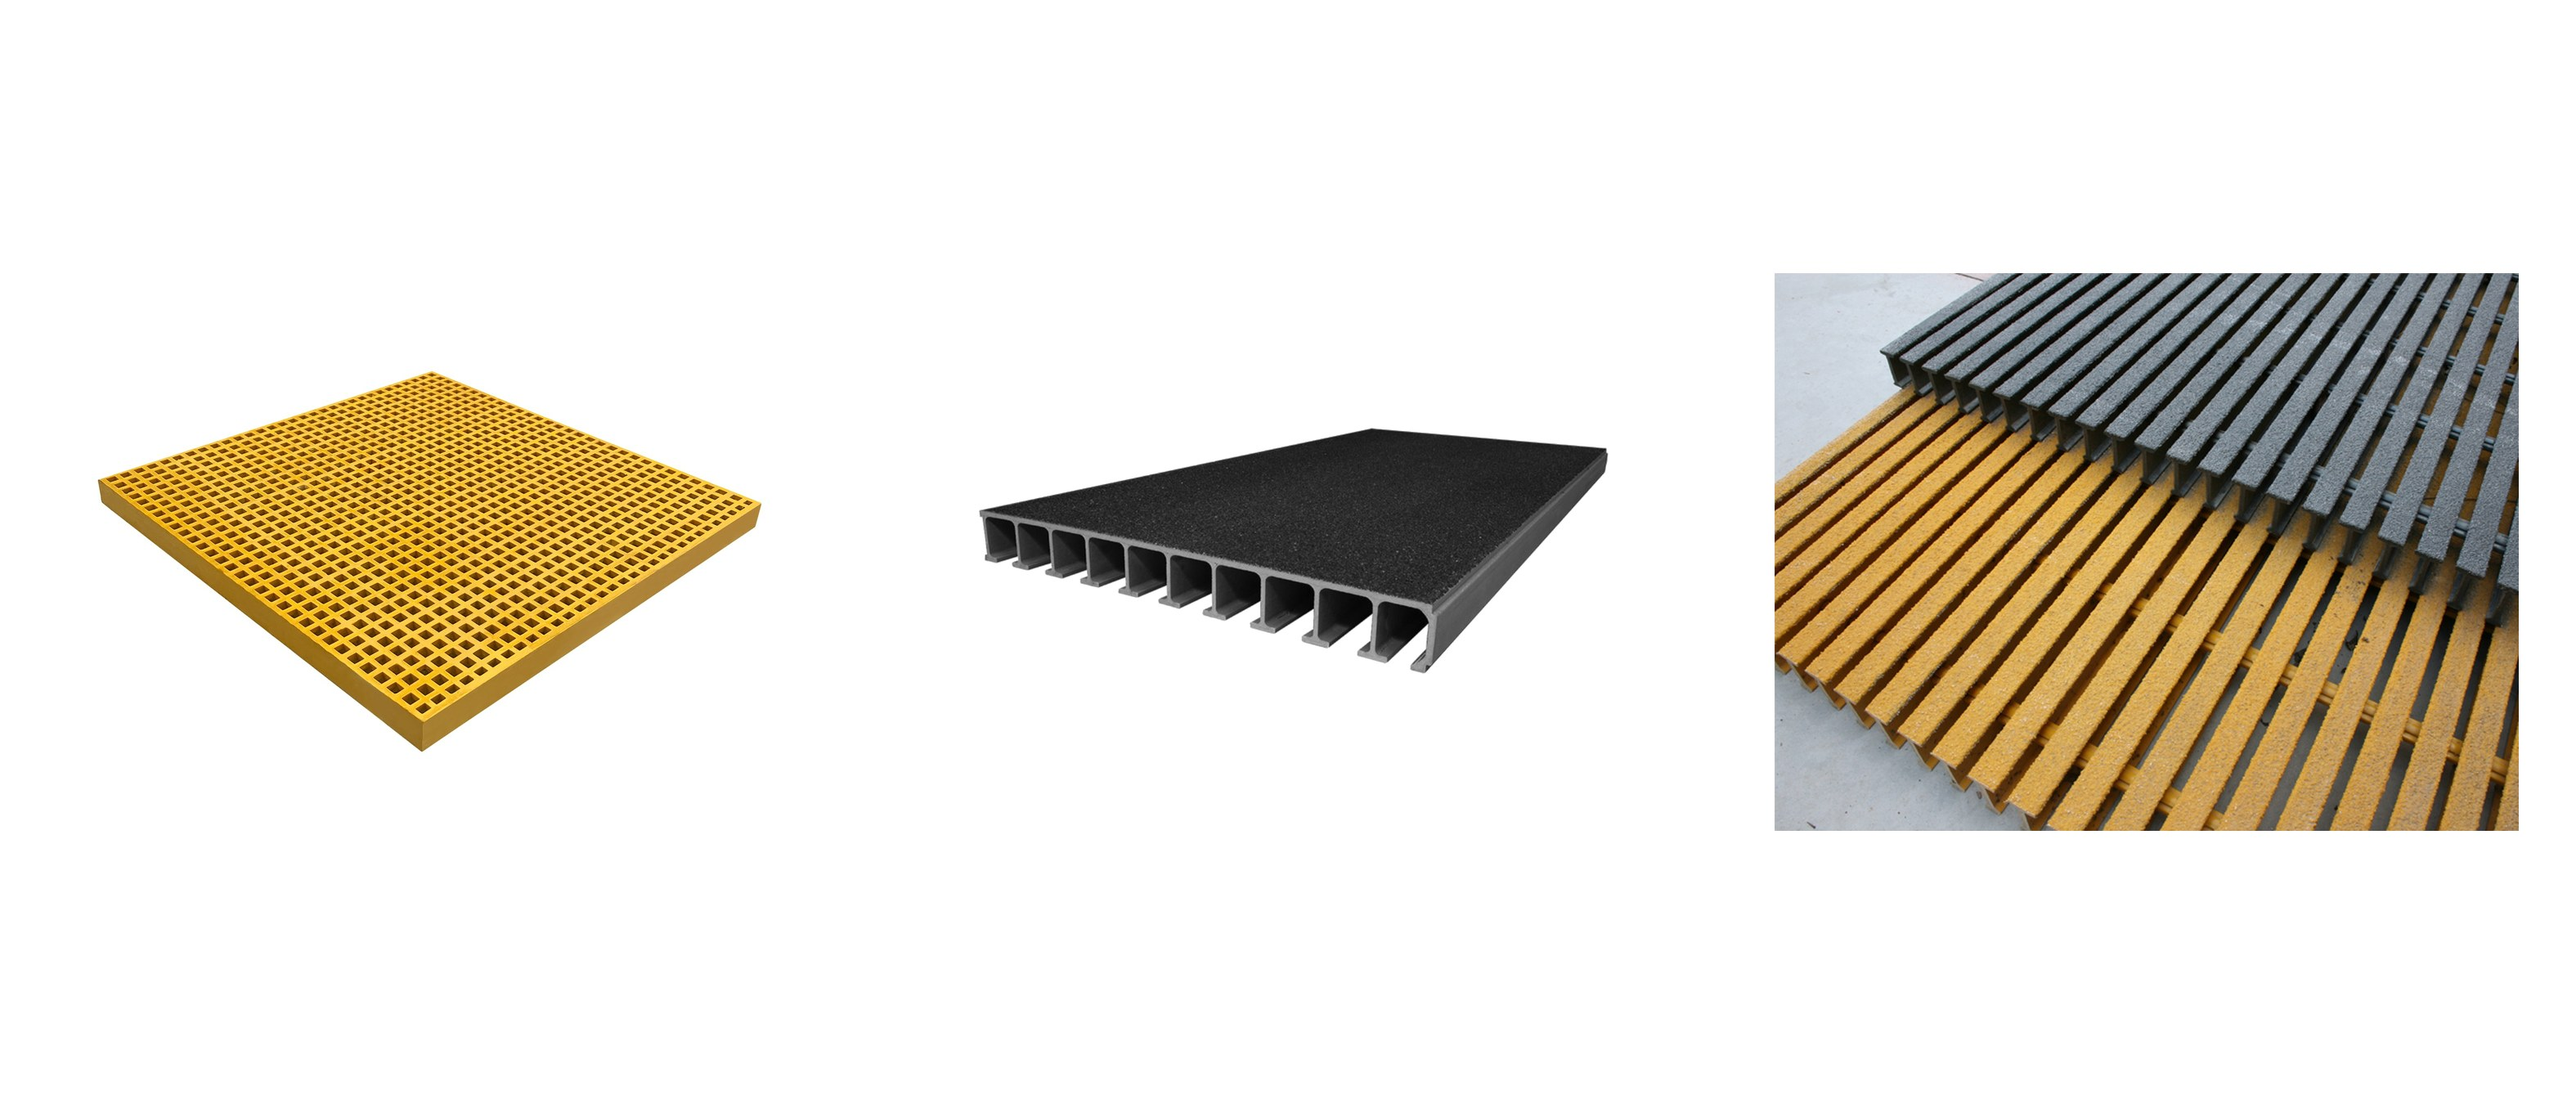
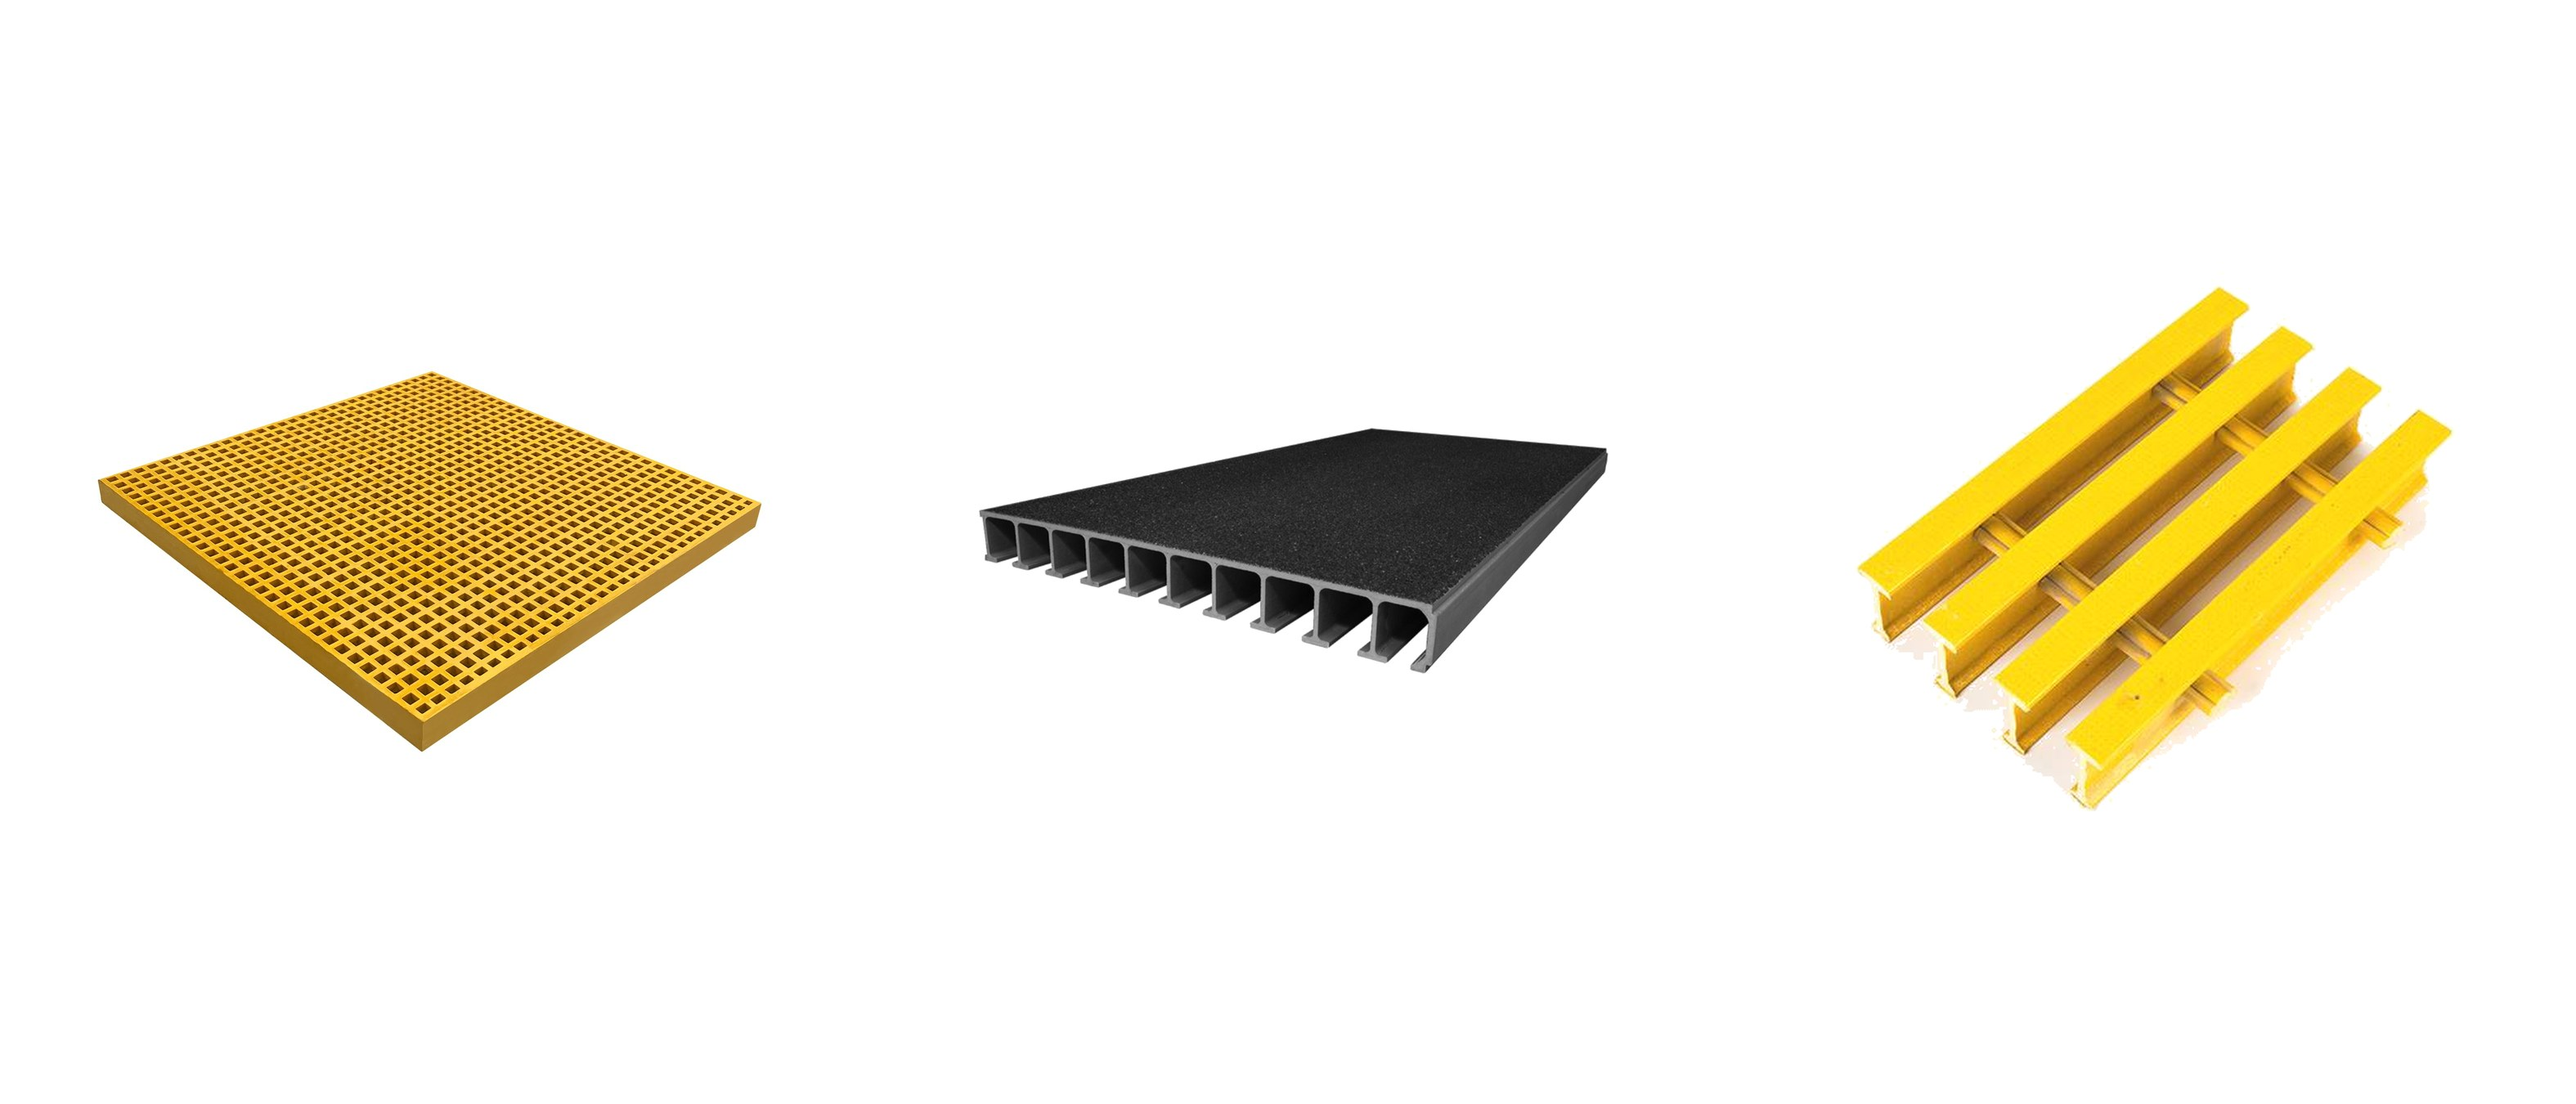
fix(gratings): third hero cell -> whitened yellow pultruded I-bar sample
All three cells now uniform knockout-style product shots on white
(molded | deck panel | pultruded I-bar); alt text updated.

Claude-Session: https://claude.ai/code/session_01YRjkqMdQbaq6jgFeXENQi3

Changed region(s): [[0.6844, 0.2489, 0.9956, 0.7778]]

diff --git a/app/products/gratings/page.tsx b/app/products/gratings/page.tsx
@@ -220,7 +220,7 @@ export default function GratingsPage() {
           <div className="relative aspect-[21/9] w-full overflow-hidden rounded-[8px]">
             <Image
               src="/images/products/frp-grating-types-molded-deck-pultruded.jpg"
-              alt="Three FRP grating types side by side — yellow molded mesh grating panel, gritted solid-top structural deck panel, and stacked yellow and gray pultruded bar grating panels"
+              alt="Three FRP grating types side by side — yellow molded mesh grating panel, gritted solid-top structural deck panel, and yellow pultruded I-bar grating sample"
               fill
               sizes="100vw"
               className="object-cover"
